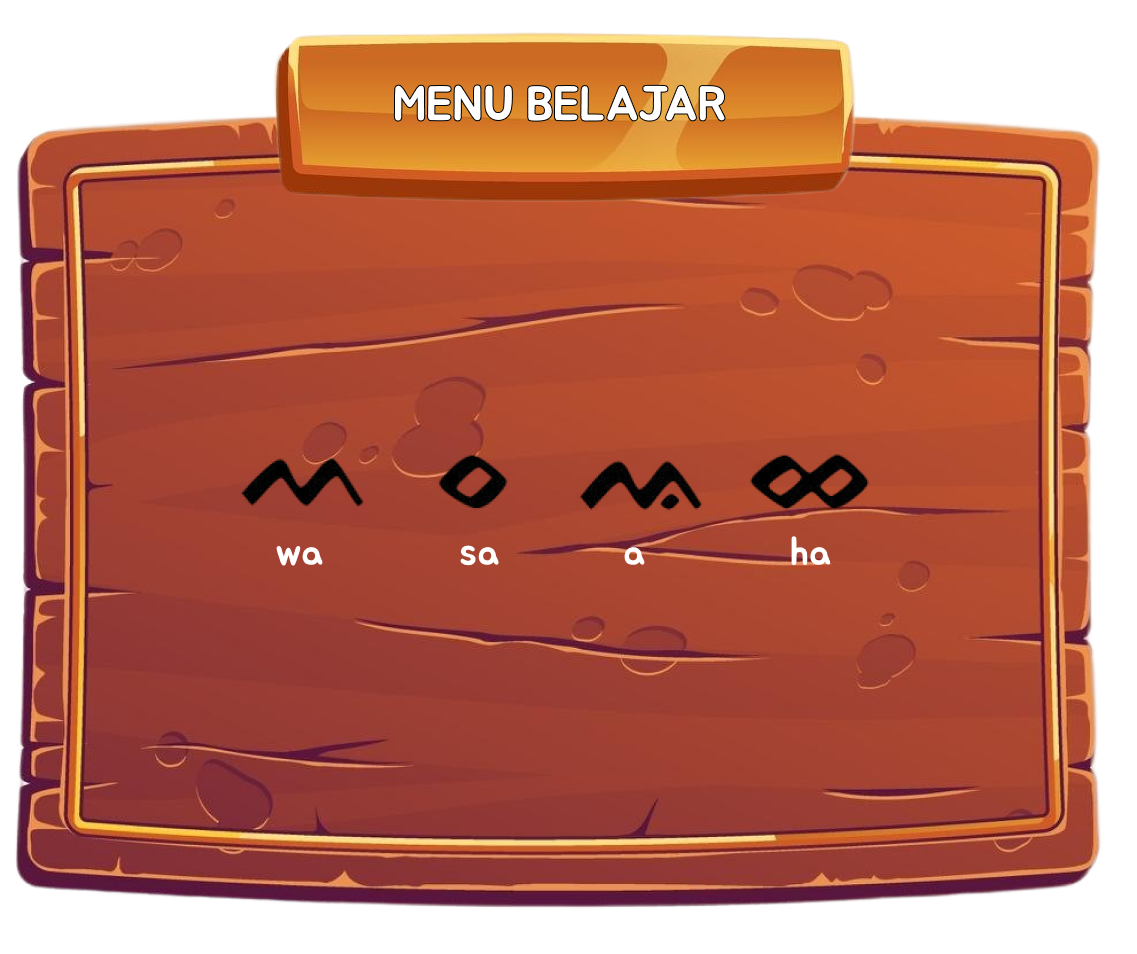
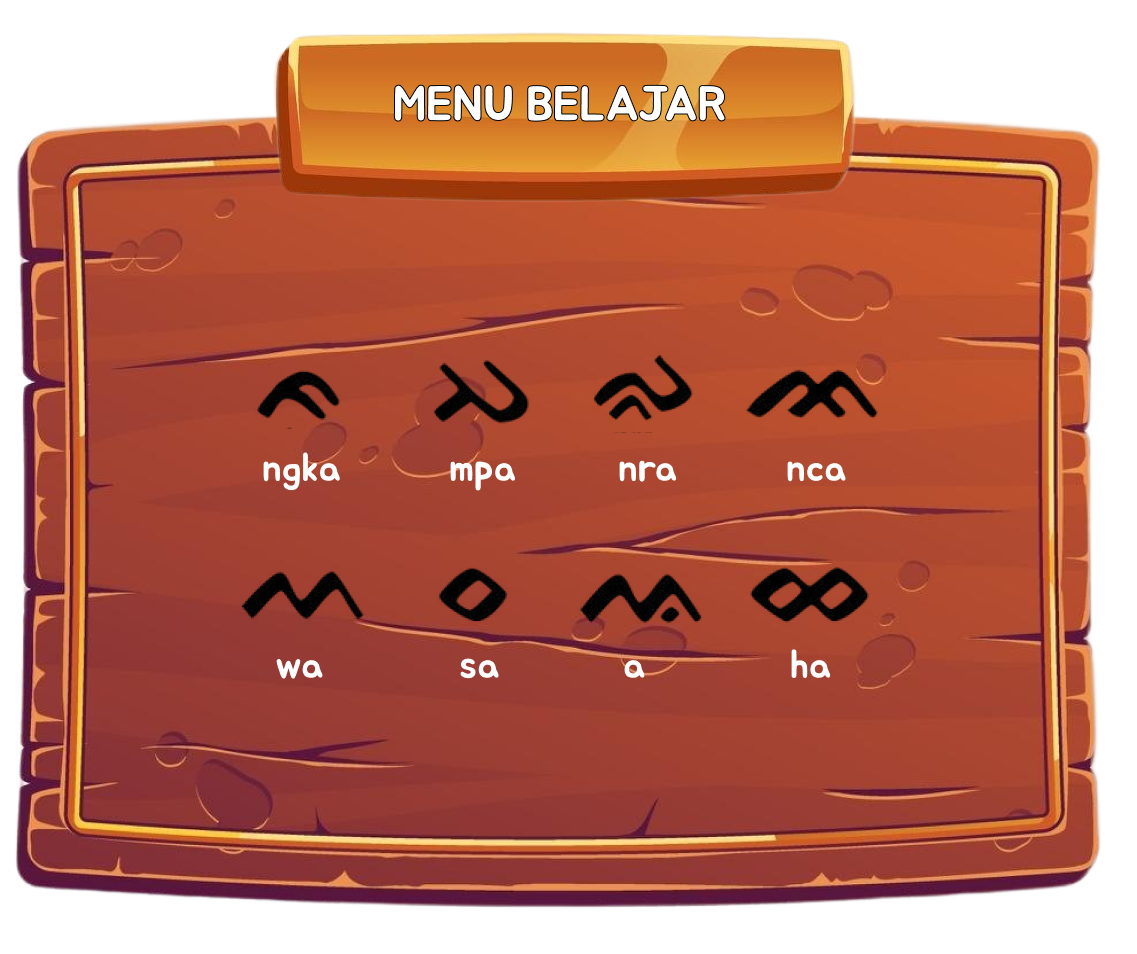
tambah asset dan update Lontara.js

diff --git a/Lontara.js b/Lontara.js
@@ -2,13 +2,16 @@ class Lontara extends Phaser.Scene {
     constructor() {
         super({ key: 'Lontara' });
         this.currentContentIndex = 0;
-        this.contents = ['LontaraContent1', 'LontaraContent2']; // Daftar konten
+        this.contents = ['LontaraContent1', 'LontaraContent2', 'LontaraContent3', 'LontaraContent5', 'LontaraContent4']; // Daftar konten
     }
 
     preload() {
         this.load.image('Lontaratbg', 'assets/bg.png');
         this.load.image('LontaraContent1', 'assets/papan menu balajar lontara 1.png');
         this.load.image('LontaraContent2', 'assets/papan menu balajar lontara 2.png');
+        this.load.image('LontaraContent3', 'assets/papan menu balajar lontara 3.png');
+        this.load.image('LontaraContent4', 'assets/papan menu balajar lontara 4.png');
+        this.load.image('LontaraContent5', 'assets/papan menu balajar lontara 5.png');
         this.load.image('buttonBack', 'assets/button kembali.png');
         this.load.image('buttonKiri', 'assets/button geser ke kiri.png');
         this.load.image('buttonKanan', 'assets/button geser ke kanan.png');
@@ -46,7 +49,7 @@ class Lontara extends Phaser.Scene {
         // Responsif saat ukuran jendela berubah
         window.addEventListener('resize', () => {
             this.game.scale.resize(window.innerWidth, window.innerHeight);
-            this.resizeImage(rumahAdatbg);
+            this.resizeImage(Lontaratbg);
             this.resizeContent(this.currentContent);
             buttonBack.setPosition(80, 80);
 
